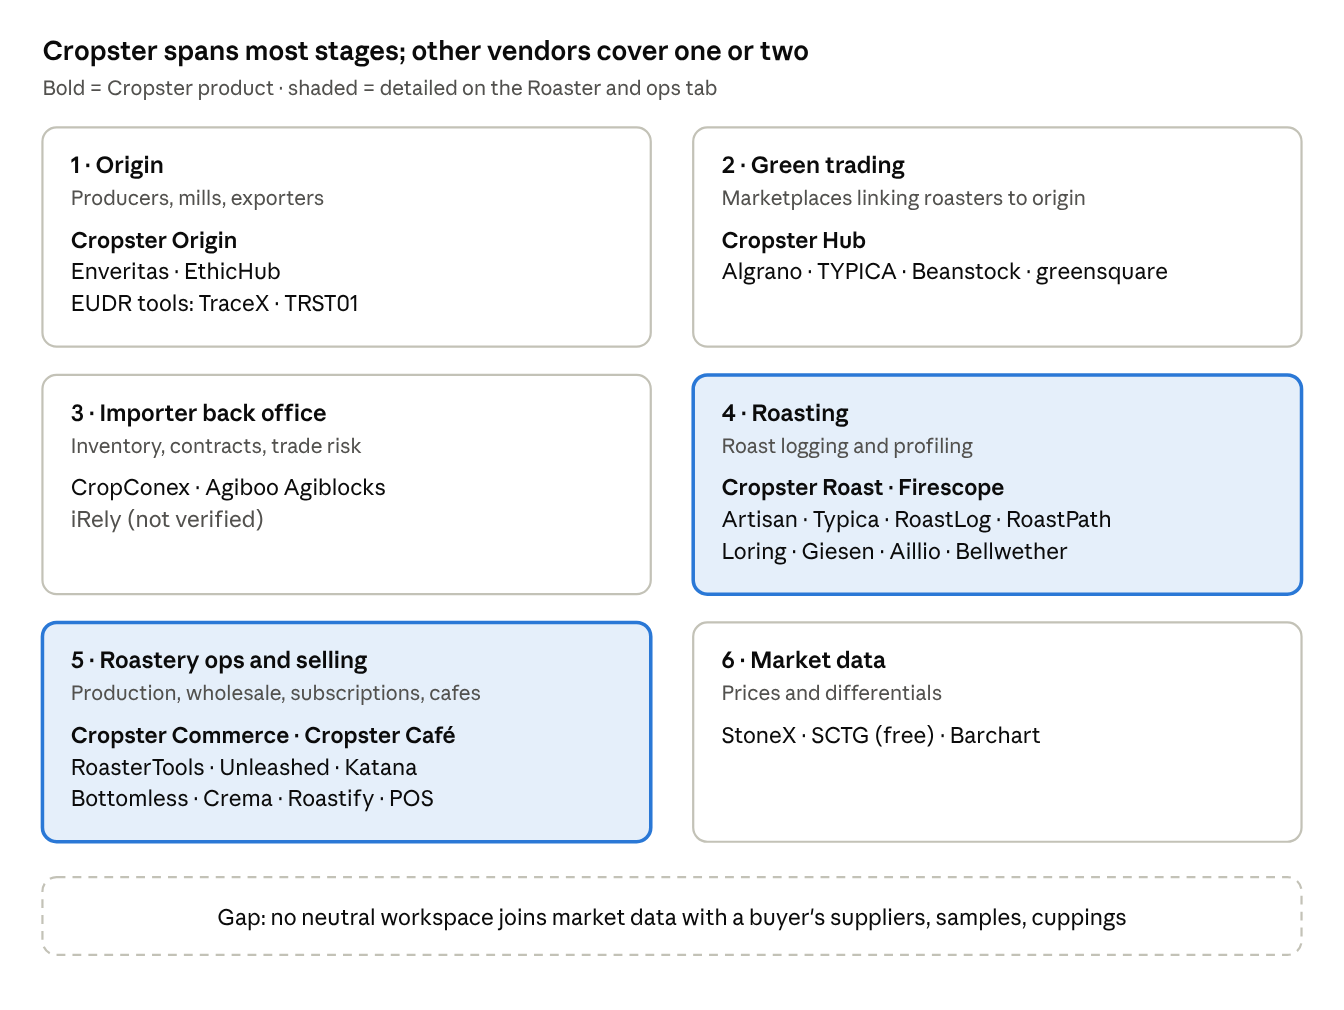
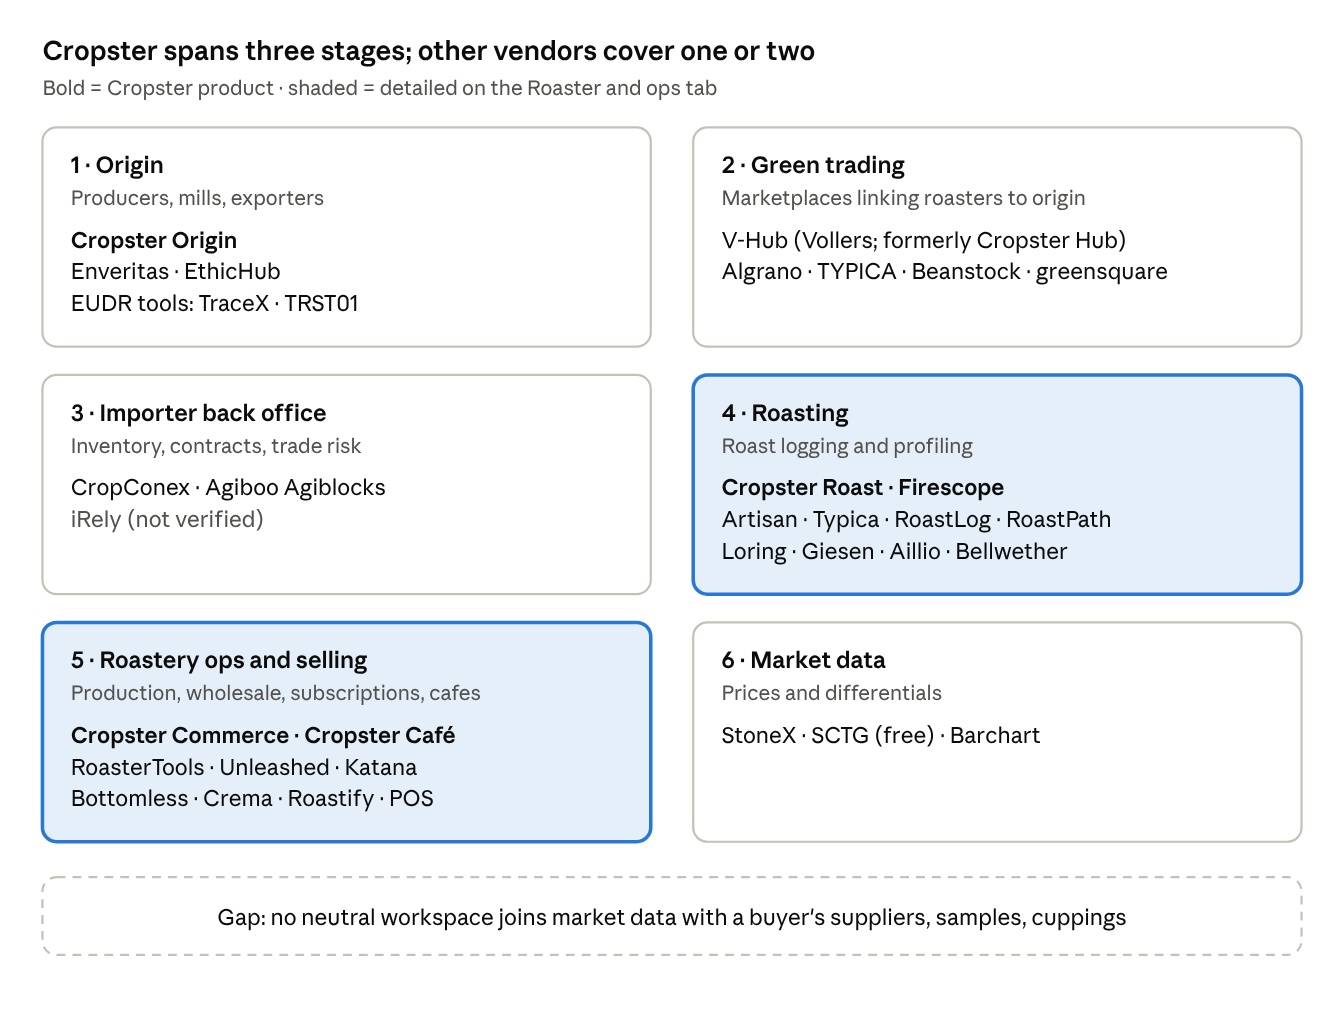
docs: link market-map companies to their own websites; Cropster Hub is now Vollers V-Hub
Claude-Session: https://claude.ai/code/session_01D2mwx1fcVkRUFY45J3XaCj

Changed region(s): [[0.1875, 0.0307, 0.625, 0.0614], [0.5312, 0.2149, 0.8438, 0.2455]]

diff --git a/docs/market-map/roaster-and-ops-software.md b/docs/market-map/roaster-and-ops-software.md
@@ -10,16 +10,16 @@ Most tools charge by roast volume or batch count. Free open-source tools (Artisa
 
 | Tool | Who it's for | Price (as listed) | What stands out |
 | --- | --- | --- | --- |
-| [Cropster Roast](https://www.cropster.com/packages/) | Roasters of every size | Starter (10 free roasts/month, up to 200 roasts, machines up to 6 kg); Core, Scale, Advanced priced by volume after 250 kg; 10% off annual | AI-assisted profile consistency, live green inventory, cupping; traceability from contract to cafe on Scale |
-| [Firescope](https://eng.firescope.cropster.com/pricing) (owned by Cropster since Oct 2025) | Small roasters, strongest in Korea, Japan and Asia | Free (10 roasts/month); Starter 26 €/month; Cropster Core+ from 95 €/month | 3,000+ small roasters; cloud records; green inventory deducted from batch size |
-| [Artisan](https://dailycoffeenews.com/2021/12/10/genuine-origin-joins-artisan-plus-inventory-management-integration) | Home to commercial roasters | Free, open source; artisan.plus inventory add-on 49 €/year (home) or 149 €/year (pro) | Most-used free logger; artisan.plus imports green purchases from Royal Coffee, Genuine Origin and Showroom Coffee |
-| [Typica](https://code.typica.us/neal/Typica/) | Professional roasters | Free, open source | Roast logging plus a profile library linked to batches |
-| [RoastLog](https://dailycoffeenews.com/2025/04/15/roastlog-is-raising-its-own-profile-with-major-update-of-roasting-software) | Specialty roasters | Three flat tiers, not volume-based ($129 / $249 / $599 a month per [Unleashed's comparison](https://www.unleashedsoftware.com/industry/coffee-roasters-inventory-management/best-coffee-roasting-software/)) | Version 5 (2025): web, Mac and Windows; inventory, cupping, samples, multiple locations; connects to Loring and Sivetz |
-| [RoastPath](https://dailycoffeenews.com/2023/12/15/mill-city-roasters-launches-roastpath-software-and-sharing-platform) (Mill City Roasters) | Owners of any of 37+ roaster brands | Free; $9, $79 or $129 a month | Live shared roasting, Roast Replay automation, community profile sharing |
+| [Cropster Roast](https://www.cropster.com/) | Roasters of every size | Starter (10 free roasts/month, up to 200 roasts, machines up to 6 kg); Core, Scale, Advanced priced by volume after 250 kg; 10% off annual | AI-assisted profile consistency, live green inventory, cupping; traceability from contract to cafe on Scale |
+| [Firescope](https://eng.firescope.cropster.com/) (owned by Cropster since Oct 2025) | Small roasters, strongest in Korea, Japan and Asia | Free (10 roasts/month); Starter 26 €/month; Cropster Core+ from 95 €/month | 3,000+ small roasters; cloud records; green inventory deducted from batch size |
+| [Artisan](https://artisan-scope.org/) | Home to commercial roasters | Free, open source; artisan.plus inventory add-on 49 €/year (home) or 149 €/year (pro) | Most-used free logger; artisan.plus imports green purchases from Royal Coffee, Genuine Origin and Showroom Coffee |
+| [Typica](https://typica.us/) | Professional roasters | Free, open source | Roast logging plus a profile library linked to batches |
+| [RoastLog](https://roastlog.com/) | Specialty roasters | Three flat tiers, not volume-based ($129 / $249 / $599 a month per Unleashed's comparison) | Version 5 (2025): web, Mac and Windows; inventory, cupping, samples, multiple locations; connects to Loring and Sivetz |
+| [RoastPath](https://www.roastpath.com/) ([Mill City Roasters](https://millcityroasters.com/)) | Owners of any of 37+ roaster brands | Free; $9, $79 or $129 a month | Live shared roasting, Roast Replay automation, community profile sharing |
 | [Loring Roast Architect](https://loring.com/software/) | Loring owners | $9/month, $99/year or $399 one-time | Profile designer; local network only, no cloud |
-| [Giesen Profiler 2.0](https://dailycoffeenews.com/2024/02/14/roaster-maker-giesen-launches-profiler-2-0-software) | Giesen owners | Not published; payment plans; free for Profiler 1 owners | Overlays profiles; controls conveyors, destoners and silos |
-| [Aillio RoasTime](https://gitnux.org/best/coffee-roaster-software/) | Aillio Bullet owners | Comes with the roaster | Profile design, control, logging; Roast.World cloud sharing |
-| [Bellwether](https://sprudge.com/bellwether-coffee-triples-customer-base-expands-to-12-countries-with-introduction-of-new-electric-roaster-285815.html) | Cafes and retailers roasting in-store | Hardware plus platform; earlier reported at $75,000 or $1,000/month lease ([The Spoon](https://thespoon.tech/bellwether-coffee-raises-40m-series-b-to-push-coffee-roasting-to-the-edge)) | Ventless electric roaster, cloud profiles, green coffee marketplace; in 12 countries, customer base tripled in nine months (Feb 2025) |
+| [Giesen Profiler 2.0](https://www.giesen.com/) | Giesen owners | Not published; payment plans; free for Profiler 1 owners | Overlays profiles; controls conveyors, destoners and silos |
+| [Aillio RoasTime](https://aillio.com/) | Aillio Bullet owners | Comes with the roaster | Profile design, control, logging; Roast.World cloud sharing |
+| [Bellwether](https://www.bellwethercoffee.com/) | Cafes and retailers roasting in-store | Hardware plus platform; earlier reported at $75,000 or $1,000/month lease (The Spoon) | Ventless electric roaster, cloud profiles, green coffee marketplace; in 12 countries, customer base tripled in nine months (Feb 2025) |
 
 ## 2. Production, inventory and wholesale
 
@@ -27,20 +27,20 @@ This is where small roasters feel the most pain: turning orders into roast days,
 
 | Tool | Who it's for | Price (as listed) | What stands out |
 | --- | --- | --- | --- |
-| [RoasterTools](https://roastertools.com/pricing) | Independent roasters, from under 1,000 lb/month to 120,000 lb/month | Essentials $99/month (1,000 lb included) → Organize $199 → Automate $499 → Scale $999 → RT Plus $2,300; per-lb fee above the allowance | Coffee-specific: green stock deducted as you roast, wholesale ordering portal, production planning, QuickBooks sync, unlimited users |
-| [Cropster Commerce](https://cropster.com/pricing/commerce) (part of Cropster Scale) | Roasters with wholesale and e-commerce | Included in volume-priced plans; add-ons: sample management 199 €, contracts and costs 500 €, API 100 € | Pulls orders from Shopify, WooCommerce and Beans into roast plans; first-in-first-out stock allocation; traceability from green bean to bag |
-| [Unleashed](https://www.unleashedsoftware.com/industry/coffee-roasters-inventory-management/best-coffee-roasting-software/) | Larger, multi-site roasters | From $399/month (3 users) | General inventory system: batch records, reordering, multiple locations |
-| Katana | Growing manufacturers | $179–$799/month, billed annually (per Unleashed's page) | General manufacturing software with batch and expiry tracking |
-| Craftybase | Micro-batch makers | $30–$90/month (per Unleashed's page) | Batch costing and material usage |
+| [RoasterTools](https://roastertools.com/) | Independent roasters, from under 1,000 lb/month to 120,000 lb/month | Essentials $99/month (1,000 lb included) → Organize $199 → Automate $499 → Scale $999 → RT Plus $2,300; per-lb fee above the allowance | Coffee-specific: green stock deducted as you roast, wholesale ordering portal, production planning, QuickBooks sync, unlimited users |
+| [Cropster Commerce](https://www.cropster.com/) (part of Cropster Scale) | Roasters with wholesale and e-commerce | Included in volume-priced plans; add-ons: sample management 199 €, contracts and costs 500 €, API 100 € | Pulls orders from Shopify, WooCommerce and Beans into roast plans; first-in-first-out stock allocation; traceability from green bean to bag |
+| [Unleashed](https://www.unleashedsoftware.com/) | Larger, multi-site roasters | From $399/month (3 users) | General inventory system: batch records, reordering, multiple locations |
+| [Katana](https://katanamrp.com/) | Growing manufacturers | $179–$799/month, billed annually (per Unleashed's page) | General manufacturing software with batch and expiry tracking |
+| [Stocksmith](https://stocksmith.io/) (formerly Craftybase) | Micro-batch makers | $30–$90/month (per Unleashed's page, as Craftybase) | Batch costing and material usage |
 
 ## 3. Selling: subscriptions, white label, marketplaces
 
 | Tool | Who it's for | Price (as listed) | What stands out |
 | --- | --- | --- | --- |
-| [Bottomless](https://techcrunch.com/?p=1795494) | Roasters selling subscriptions | Not public | A smart scale reorders when the bag runs low; partners include Philz and Four Barrel; went through Y Combinator |
-| [Crema.co](https://crema.co/our-story) | Roasters wanting more online reach | Marketplace margin | One subscription across 65+ roasters and 1,000+ coffees |
-| [Roastify](https://apps.shopify.com/roastify) | Brands without a roastery | $15 or $49/month Shopify app | Private-label roasting and drop-shipping, no minimums |
-| Shopify wholesale apps ([example](https://wholesalehelper.io/blog/b2b-on-shopify-case-study-on-fulcrum-coffee-shop/)) | Roasters already on Shopify | Varies | Build-your-own wholesale pricing and ordering portals |
+| [Bottomless](https://www.bottomless.com/) | Roasters selling subscriptions | Not public | A smart scale reorders when the bag runs low; partners include Philz and Four Barrel; went through Y Combinator |
+| [Crema.co](https://crema.co/) | Roasters wanting more online reach | Marketplace margin | One subscription across 65+ roasters and 1,000+ coffees |
+| [Roastify](https://roastify.app/) | Brands without a roastery | $15 or $49/month Shopify app | Private-label roasting and drop-shipping, no minimums |
+| Shopify wholesale apps | Roasters already on Shopify | Varies | Build-your-own wholesale pricing and ordering portals ([example](https://wholesalehelper.io/blog/b2b-on-shopify-case-study-on-fulcrum-coffee-shop/)) |
 
 ## 4. Cafe operations
 
@@ -60,4 +60,4 @@ Cafes run on general point-of-sale systems; there is little coffee-specific soft
 
 ## Sources
 
-All pages opened 19 Oct 2026: [Cropster packages](https://www.cropster.com/packages/) · [Cropster Commerce](https://cropster.com/pricing/commerce) · [Firescope pricing](https://eng.firescope.cropster.com/pricing) · [Firescope acquisition, T&CTJ](https://www.teaandcoffee.net/news/37938/cropster-acquires-firescope/) · [RoasterTools pricing](https://roastertools.com/pricing) · [Unleashed roasting-software comparison](https://www.unleashedsoftware.com/industry/coffee-roasters-inventory-management/best-coffee-roasting-software/) · [artisan.plus, DCN](https://dailycoffeenews.com/2021/12/10/genuine-origin-joins-artisan-plus-inventory-management-integration) · [RoastLog v5, DCN](https://dailycoffeenews.com/2025/04/15/roastlog-is-raising-its-own-profile-with-major-update-of-roasting-software) · [RoastPath, DCN](https://dailycoffeenews.com/2023/12/15/mill-city-roasters-launches-roastpath-software-and-sharing-platform) · [Loring software](https://loring.com/software/) · [Giesen Profiler 2.0, DCN](https://dailycoffeenews.com/2024/02/14/roaster-maker-giesen-launches-profiler-2-0-software) · [Gitnux roaster software list](https://gitnux.org/best/coffee-roaster-software/) · [Bellwether, Sprudge](https://sprudge.com/bellwether-coffee-triples-customer-base-expands-to-12-countries-with-introduction-of-new-electric-roaster-285815.html) · [Bellwether Series B, The Spoon](https://thespoon.tech/bellwether-coffee-raises-40m-series-b-to-push-coffee-roasting-to-the-edge) · [Bottomless, TechCrunch](https://techcrunch.com/?p=1795494) · [Crema](https://crema.co/our-story) · [Roastify, Shopify](https://apps.shopify.com/roastify) · [2025 roasting tech roundup, DCN](https://dailycoffeenews.com/2025/12/26/2025-year-in-review-new-coffee-roasting-equipment-and-tech/)
+Tool names link to vendor websites; facts come from these pages, opened 19 Oct 2026: [Cropster packages](https://www.cropster.com/packages/) · [Cropster Commerce](https://cropster.com/pricing/commerce) · [Firescope pricing](https://eng.firescope.cropster.com/pricing) · [Firescope acquisition, T&CTJ](https://www.teaandcoffee.net/news/37938/cropster-acquires-firescope/) · [RoasterTools pricing](https://roastertools.com/pricing) · [Unleashed roasting-software comparison](https://www.unleashedsoftware.com/industry/coffee-roasters-inventory-management/best-coffee-roasting-software/) · [artisan.plus, DCN](https://dailycoffeenews.com/2021/12/10/genuine-origin-joins-artisan-plus-inventory-management-integration) · [RoastLog v5, DCN](https://dailycoffeenews.com/2025/04/15/roastlog-is-raising-its-own-profile-with-major-update-of-roasting-software) · [RoastPath, DCN](https://dailycoffeenews.com/2023/12/15/mill-city-roasters-launches-roastpath-software-and-sharing-platform) · [Loring software](https://loring.com/software/) · [Giesen Profiler 2.0, DCN](https://dailycoffeenews.com/2024/02/14/roaster-maker-giesen-launches-profiler-2-0-software) · [Gitnux roaster software list](https://gitnux.org/best/coffee-roaster-software/) · [Bellwether, Sprudge](https://sprudge.com/bellwether-coffee-triples-customer-base-expands-to-12-countries-with-introduction-of-new-electric-roaster-285815.html) · [Bellwether Series B, The Spoon](https://thespoon.tech/bellwether-coffee-raises-40m-series-b-to-push-coffee-roasting-to-the-edge) · [Bottomless, TechCrunch](https://techcrunch.com/?p=1795494) · [Crema](https://crema.co/our-story) · [Roastify, Shopify](https://apps.shopify.com/roastify) · [2025 roasting tech roundup, DCN](https://dailycoffeenews.com/2025/12/26/2025-year-in-review-new-coffee-roasting-equipment-and-tech/)

diff --git a/docs/market-map/specialty-coffee-software.md b/docs/market-map/specialty-coffee-software.md
@@ -5,9 +5,9 @@ Deep dive on roastery tools: [roaster-and-ops-software.md](roaster-and-ops-softw
 
 ## Summary
 
-Specialty coffee software splits into six stages: origin, green trading, importer back office, roasting, roastery operations, and market data. Cropster is the only company covering most of them. It is PE-backed (Verdane took a majority stake in 2024) and is buying competitors: it acquired Asia's Firescope (3,000+ small roasters) in October 2025 and says more deals are coming.
+Specialty coffee software splits into six stages: origin, green trading, importer back office, roasting, roastery operations, and market data. Cropster covers the most stages: origin, roasting and roastery operations. It is PE-backed (Verdane took a majority stake in 2024) and is buying competitors: it acquired Asia's Firescope (3,000+ small roasters) in October 2025 and says more deals are coming.
 
-- **Marketplaces** (Algrano, TYPICA, Cropster Hub, Beanstock, greensquare) show only their own listings.
+- **Marketplaces** (Algrano, TYPICA, V-Hub, Beanstock, greensquare) show only their own listings.
 - **Back-office tools** (CropConex, Agiboo) serve sellers and large traders, not independent buyers.
 - **Roastery tools** (Cropster Roast, RoasterTools, Artisan, software from roaster makers) start only after the coffee is bought.
 - **Price context** is either paywalled (StoneX, $200/month) or published once a year (the free Specialty Coffee Transaction Guide).
@@ -18,7 +18,7 @@ The open gap: a neutral workspace where an independent buyer or broker combines 
 
 ![Specialty coffee software market map: six stages](market-map.png)
 
-Stages run from the farm (1) to price data (6). Cropster sells into four of the six; the other vendors are mostly single-stage.
+Stages run from the farm (1) to price data (6). Cropster sells into three of the six; the other vendors are mostly single-stage.
 
 ## Companies by stage
 
@@ -26,19 +26,19 @@ Roasting and roastery-operations tools are in [roaster-and-ops-software.md](roas
 
 | Company | Stage | Who it's for | Model / pricing | What stands out |
 | --- | --- | --- | --- | --- |
-| [Cropster Origin](https://www.cropster.com/products/origin/) | Origin | Producers, mills, exporters | Base fee + usage; Enterprise by quote | Lot, processing and inventory records; mobile cupping |
-| [Enveritas](https://worldcoffeeportal.com/Latest/InsightAnalysis/2024/May/Enveritas-big-idea-for-coffee-sustainability) | Origin | Roasters' sourcing teams | Non-profit; buyers pay for the audit | 350k+ farms verified; EUDR portal; partners include JDE Peet's and Counter Culture |
-| [EthicHub](https://www.aap.com.au/aapreleases/cision20250725ae37669) | Origin | Smallholders, lenders, roasters | Crowdlending + coffee sales | Claims 10k+ Latin American farmers and 300+ t sold (self-reported) |
-| [TraceX](https://tracextech.com/eudr-dds/coffee-supply-chain-uk/), [TRST01](https://www.outlookbusiness.com/spotlight/pr-wire/trst01-announces-full-eudr-readiness-for-indian-coffee-rubber-and-soy-exporters-as-30-december-deadline-nears) | Origin | Exporters, EU importers | SaaS | EUDR due-diligence tools; a crowded, fast-growing niche |
-| [Algrano](https://dailycoffeenews.com/2023/04/10/direct-trade-green-coffee-platform-algrano-makes-us-launch) | Green trading | EU/US roasters, producers | Commission via exporters/importers | Direct producer profiles; shared shipments from a single 60-kg bag |
-| [TYPICA](https://www.japan.go.jp/kizuna/2024/08/online_coffee_trading_platform.html) | Green trading | Roasters in 40 countries, producers in 36 | Platform fee shown openly | Producers set their own prices; one-bag minimum; started in Asia |
-| [Cropster Hub](https://freshcup.com/online-green-coffee-sourcing/) | Green trading | Roasters | Virtual broker; fees not public | Lots at origin and in transit; remote auctions |
-| [Beanstock](https://dailycoffeenews.com/2016/06/02/green-coffee-aggregator-beanstock-makes-official-launch-following-scaa-success) | Green trading | US roasters | Not stated | Combines importers' US spot lists; sample requests to several importers at once |
-| [greensquare](https://www.beanscenemag.com.au/how-greensquare-is-a-digitalised-solution-for-roasting-businesses) | Green trading | Australian roasters, traders | Not stated | Spot + forward contracts, digital signing, drawdowns |
-| [CropConex](https://sprudge.com/cropconex-unveils-new-suite-of-tools-for-coffee-traders-224294.html) | Importer back office | US importers, roasters | Tiered subscription | Lot inventory, curated offers, contracts, fulfilment |
-| [Agiboo Agiblocks](https://www.agiboo.com/specialized-commodities-coffee/) | Importer back office | Mid-size to large traders | Enterprise trade and risk management software (CTRM) | Coffee differentials, sampling, quality and weight tolerance rules |
+| [Cropster Origin](https://www.cropster.com/products/origin/) | Origin | Producers, mills, exporters | From 199 €/month + usage; Enterprise by quote | Lot, processing and inventory records; mobile cupping |
+| [Enveritas](https://enveritas.org/) | Origin | Roasters' sourcing teams | Non-profit; buyers pay for the audit | 350k+ farms verified; EUDR portal; partners include JDE Peet's and Counter Culture |
+| [EthicHub](https://ethichub.com/) | Origin | Smallholders, lenders, roasters | Crowdlending + coffee sales | Claims 10k+ Latin American farmers and 300+ t sold (self-reported) |
+| [TraceX](https://tracextech.com/), [TRST01](https://www.trst01.com/) | Origin | Exporters, EU importers | SaaS | EUDR due-diligence tools; a crowded, fast-growing niche |
+| [Algrano](https://algrano.com/) | Green trading | EU/US roasters, producers | Commission via exporters/importers | Direct producer profiles; shared shipments from a single 60-kg bag; shipping, financing and warehousing services |
+| [TYPICA](https://typica.coffee/en/) | Green trading | Roasters in 40 countries, producers in 36 | Platform fee shown openly | Producers set their own prices; one-bag minimum; started in Asia |
+| [V-Hub](https://www.v-hub.vollers.com/) (formerly Cropster Hub) | Green trading | Roasters | Virtual broker; fees not public | Owned by logistics group Vollers since Aug 2021; lots at origin and in transit; remote auctions |
+| [Beanstock](https://www.beanstock.ag/) | Green trading | US roasters | Not stated | Combines importers' US spot lists; sample requests to several importers at once; launched 2016, current status unconfirmed |
+| greensquare (website not confirmed) | Green trading | Australian roasters, traders | Not stated | Spot + forward contracts, digital signing, drawdowns |
+| [CropConex](https://www.cropconex.com/) | Importer back office | US importers, roasters | Tiered subscription | Lot inventory, curated offers, contracts, fulfilment |
+| [Agiboo Agiblocks](https://www.agiboo.com/) | Importer back office | Mid-size to large traders | Enterprise trade and risk management software (CTRM) | Coffee differentials, sampling, quality and weight tolerance rules |
 | [StoneX Differential Insights](https://shop.stonex.com/products/coffee-differential-insight) | Market data | Traders, roasters | $200/month or $2,040/year | Weekly FOB differentials by origin; Brazil internal prices |
-| [Specialty Coffee Transaction Guide](https://dailycoffeenews.com/2025/02/18/the-2024-specialty-coffee-transaction-guide-is-here) | Market data | Whole chain | Free, annual | FOB medians from 100k+ contracts by quality, lot size and origin |
+| [Specialty Coffee Transaction Guide](https://www.transactionguide.coffee/) | Market data | Whole chain | Free, annual | FOB medians from 100k+ contracts by quality, lot size and origin |
 
 Not checked this pass: iRely (a commodity ERP some coffee traders use) and farmer connect / iFinca (traceability aimed at consumers).
 
@@ -70,3 +70,7 @@ Generic startup lists are mostly consumer coffee brands and machines; trade pres
 | [StartUs Insights](https://www.startus-insights.com/innovators-guide/discover-5-top-coffee-bean-sourcing-technologies-developed-by-startups/) | Startup scouting | Roundups of sourcing-tech startups |
 | [Lavazza Brewing Connection](https://www.lavazzagroup.com/en/brewing-connection.html), [Avança Café](https://centev.ufv.br/en/servico/avanca-cafe-advance-coffee/) | Accelerators | Early-stage entrants (Avança Café picked 26 startups) |
 | SCA Specialty Coffee Expo, World of Coffee | Events | Best New Product awards; software exhibitors |
+
+## Sources
+
+Company names link to their own websites; facts come from these pages, opened 19 Oct 2026: [Cropster Origin pricing](https://www.cropster.com/packages/) · [Verdane stake in Cropster, GCR](https://www.gcrmag.com/verdane-acquires-majority-stake-in-cropster) · [Cropster acquires Firescope, T&CTJ](https://www.teaandcoffee.net/news/37938/cropster-acquires-firescope/) · [Enveritas, World Coffee Portal](https://worldcoffeeportal.com/Latest/InsightAnalysis/2024/May/Enveritas-big-idea-for-coffee-sustainability) · [EthicHub release](https://www.aap.com.au/aapreleases/cision20250725ae37669) · [TraceX EUDR coffee](https://tracextech.com/eudr-dds/coffee-supply-chain-uk/) · [TRST01 EUDR release](https://www.outlookbusiness.com/spotlight/pr-wire/trst01-announces-full-eudr-readiness-for-indian-coffee-rubber-and-soy-exporters-as-30-december-deadline-nears) · [Algrano US launch, DCN](https://dailycoffeenews.com/2023/04/10/direct-trade-green-coffee-platform-algrano-makes-us-launch) · [TYPICA, Japan Kizuna](https://www.japan.go.jp/kizuna/2024/08/online_coffee_trading_platform.html) · [Online green sourcing, Fresh Cup](https://freshcup.com/online-green-coffee-sourcing/) · [Vollers buys Cropster Hub](https://www.vollers.com/news/details/green-coffee-marketplace-with-a-future-logistics-company-vollers-group-purchases-green-coffee-marketplace-cropster-hub) · [Beanstock launch, DCN](https://dailycoffeenews.com/2016/06/02/green-coffee-aggregator-beanstock-makes-official-launch-following-scaa-success) · [greensquare, BeanScene](https://www.beanscenemag.com.au/how-greensquare-is-a-digitalised-solution-for-roasting-businesses) · [CropConex tools, Sprudge](https://sprudge.com/cropconex-unveils-new-suite-of-tools-for-coffee-traders-224294.html) · [Agiblocks for coffee](https://www.agiboo.com/specialized-commodities-coffee/) · [StoneX Differential Insights](https://shop.stonex.com/products/coffee-differential-insight) · [2024 SCTG, DCN](https://dailycoffeenews.com/2025/02/18/the-2024-specialty-coffee-transaction-guide-is-here)
